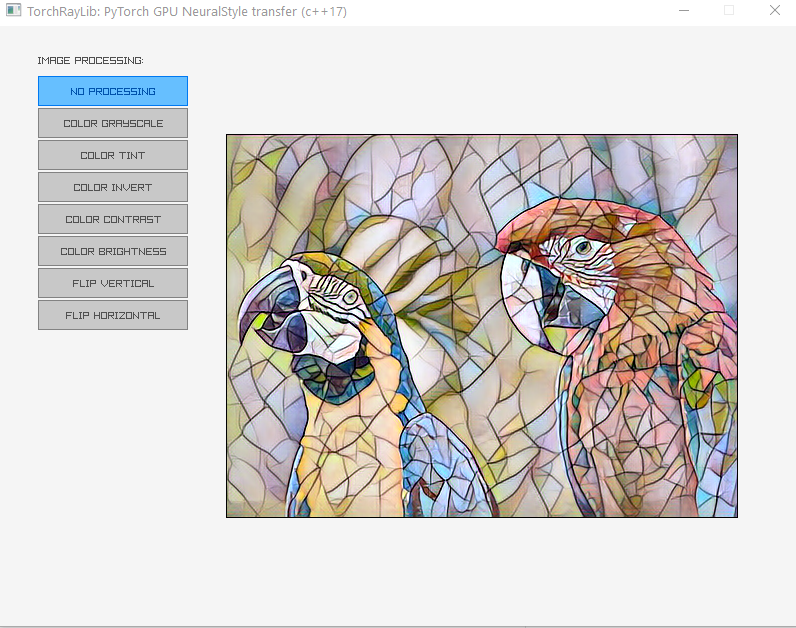
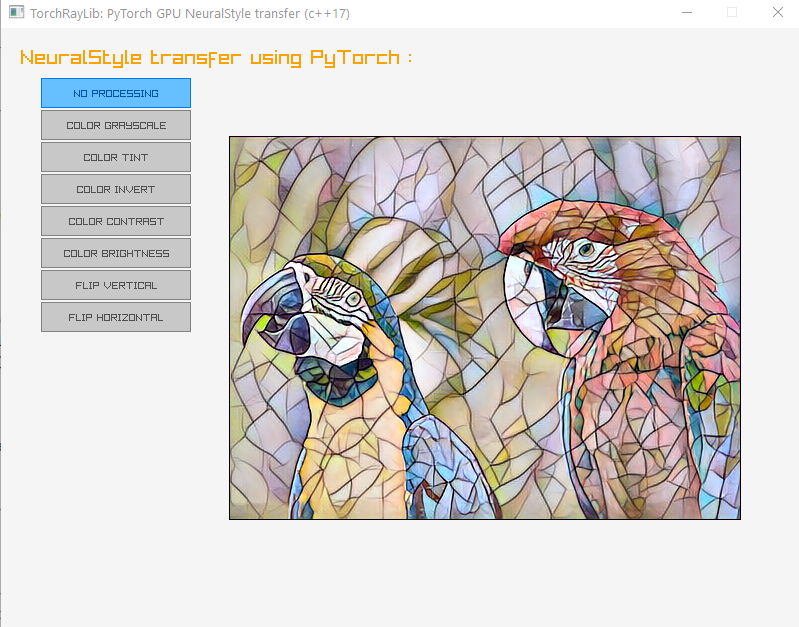
ray to torch seems to be working imagePointer[j*width*3+noAlpha]

diff --git a/src/torch_textures_image_processing.cpp b/src/torch_textures_image_processing.cpp
@@ -160,7 +160,7 @@ int main(int argc, char* argv[])
 
         ClearBackground(RAYWHITE);
 
-        DrawText("IMAGE PROCESSING:", 40, 30, 10, DARKGRAY);
+        DrawText("NeuralStyle transfer using PyTorch :", 20, 20, 20, ORANGE);
 
         // Draw rectangles
         for (int i = 0; i < NUM_PROCESSES; i++)
